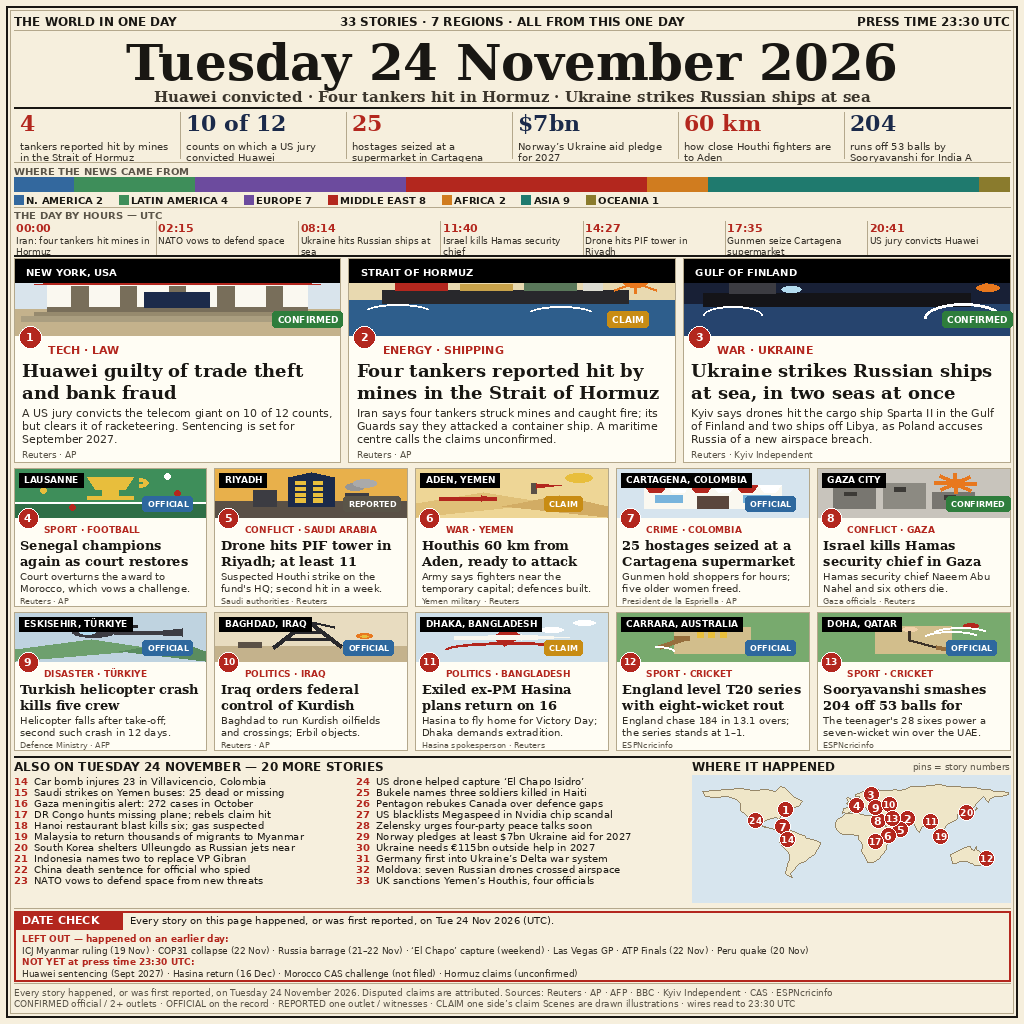
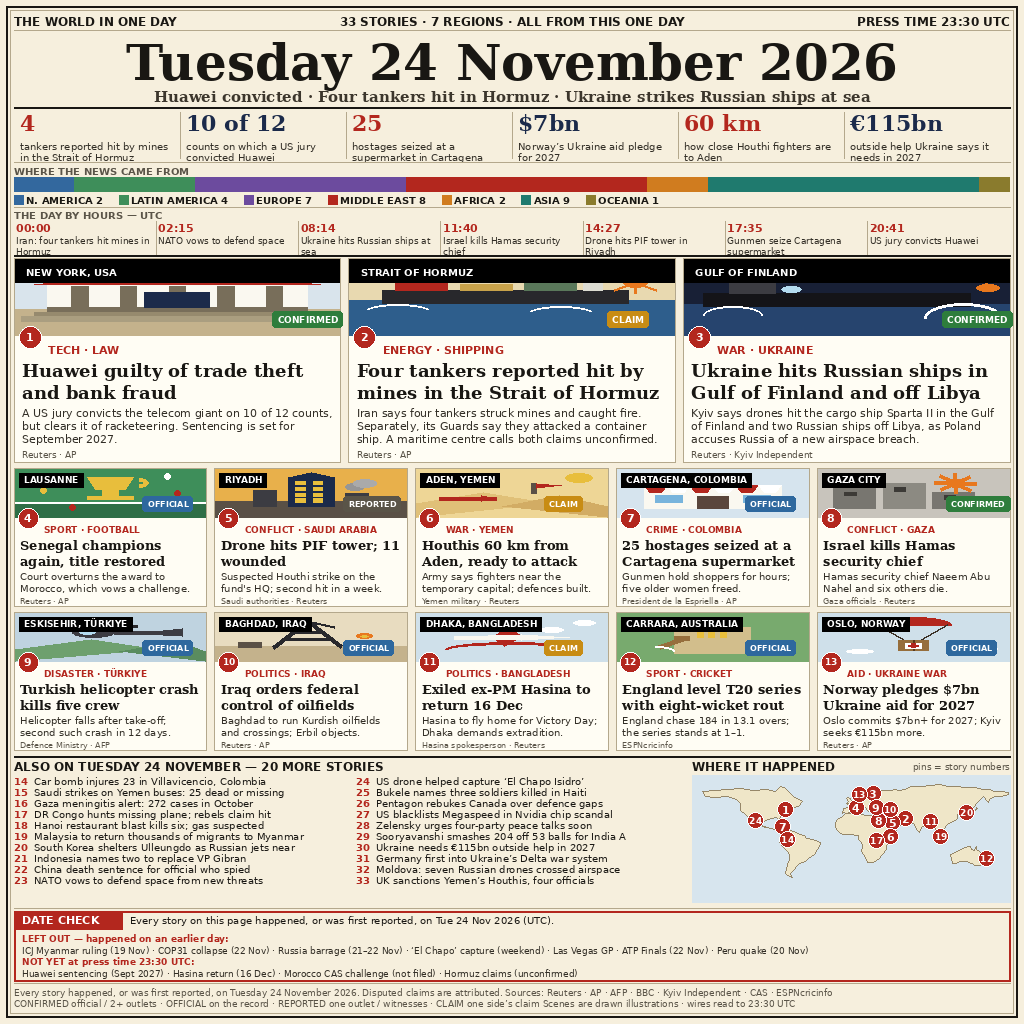
v2: fix clipped headlines, split Hormuz claims, Norway aid replaces cricket card, EUR115bn stat

diff --git a/render.py b/render.py
@@ -41,29 +41,29 @@ LEADS = [
          tagcol=(200, 140, 20), scene="tanker",
          kicker="ENERGY \u00b7 SHIPPING",
          head="Four tankers reported hit by mines in the Strait of Hormuz",
-         body="Iran says four tankers struck mines and caught fire; its Guards say "
-              "they attacked a container ship. A maritime centre calls the claims "
-              "unconfirmed.",
+         body="Iran says four tankers struck mines and caught fire. Separately, "
+              "its Guards say they attacked a container ship. A maritime centre "
+              "calls both claims unconfirmed.",
          source="Reuters \u00b7 AP", lat=26.5, lon=56.0),
     dict(n=3, region="EUROPE", place="GULF OF FINLAND", tag="CONFIRMED",
          tagcol=(46, 125, 60), scene="shipstrike",
          kicker="WAR \u00b7 UKRAINE",
-         head="Ukraine strikes Russian ships at sea, in two seas at once",
+         head="Ukraine hits Russian ships in Gulf of Finland and off Libya",
          body="Kyiv says drones hit the cargo ship Sparta II in the Gulf of Finland "
-              "and two ships off Libya, as Poland accuses Russia of a new airspace "
-              "breach.",
+              "and two Russian ships off Libya, as Poland accuses Russia of a new "
+              "airspace breach.",
          source="Reuters \u00b7 Kyiv Independent", lat=59.8, lon=24.0),
 ]
 
 MEDIUMS = [
     dict(n=4, region="AFRICA", place="LAUSANNE", tag="OFFICIAL",
          tagcol=(46, 104, 158), scene="trophy", kicker="SPORT \u00b7 FOOTBALL",
-         head="Senegal champions again as court restores title",
+         head="Senegal champions again, title restored",
          body="Court overturns the award to Morocco, which vows a challenge.",
          source="Reuters \u00b7 AP", lat=46.5, lon=6.6),
     dict(n=5, region="MIDDLE EAST", place="RIYADH", tag="REPORTED",
          tagcol=(90, 84, 72), scene="tower", kicker="CONFLICT \u00b7 SAUDI ARABIA",
-         head="Drone hits PIF tower in Riyadh; at least 11 wounded",
+         head="Drone hits PIF tower; 11 wounded",
          body="Suspected Houthi strike on the fund's HQ; second hit in a week.",
          source="Saudi authorities \u00b7 Reuters", lat=24.7, lon=46.7),
     dict(n=6, region="MIDDLE EAST", place="ADEN, YEMEN", tag="CLAIM",
@@ -78,7 +78,7 @@ MEDIUMS = [
          source="President de la Espriella \u00b7 AP", lat=10.4, lon=-75.5),
     dict(n=8, region="MIDDLE EAST", place="GAZA CITY", tag="CONFIRMED",
          tagcol=(46, 125, 60), scene="blast", kicker="CONFLICT \u00b7 GAZA",
-         head="Israel kills Hamas security chief in Gaza strike",
+         head="Israel kills Hamas security chief",
          body="Hamas security chief Naeem Abu Nahel and six others die.",
          source="Gaza officials \u00b7 Reuters", lat=31.5, lon=34.5),
     dict(n=9, region="ASIA", place="ESKISEHIR, T\u00dcRKIYE", tag="OFFICIAL",
@@ -88,12 +88,12 @@ MEDIUMS = [
          source="Defence Ministry \u00b7 AFP", lat=39.8, lon=30.5),
     dict(n=10, region="MIDDLE EAST", place="BAGHDAD, IRAQ", tag="OFFICIAL",
          tagcol=(46, 104, 158), scene="oil", kicker="POLITICS \u00b7 IRAQ",
-         head="Iraq orders federal control of Kurdish oilfields",
+         head="Iraq orders federal control of oilfields",
          body="Baghdad to run Kurdish oilfields and crossings; Erbil objects.",
          source="Reuters \u00b7 AP", lat=33.3, lon=44.4),
     dict(n=11, region="SOUTH ASIA", place="DHAKA, BANGLADESH", tag="CLAIM",
          tagcol=(200, 140, 20), scene="plane", kicker="POLITICS \u00b7 BANGLADESH",
-         head="Exiled ex-PM Hasina plans return on 16 December",
+         head="Exiled ex-PM Hasina to return 16 Dec",
          body="Hasina to fly home for Victory Day; Dhaka demands extradition.",
          source="Hasina spokesperson \u00b7 Reuters", lat=23.8, lon=90.4),
     dict(n=12, region="OCEANIA", place="CARRARA, AUSTRALIA", tag="OFFICIAL",
@@ -101,11 +101,11 @@ MEDIUMS = [
          head="England level T20 series with eight-wicket rout",
          body="England chase 184 in 13.1 overs; the series stands at 1\u20131.",
          source="ESPNcricinfo", lat=-28.0, lon=153.4),
-    dict(n=13, region="SOUTH ASIA", place="DOHA, QATAR", tag="OFFICIAL",
-         tagcol=(46, 104, 158), scene="bat", kicker="SPORT \u00b7 CRICKET",
-         head="Sooryavanshi smashes 204 off 53 balls for India A",
-         body="The teenager's 28 sixes power a seven-wicket win over the UAE.",
-         source="ESPNcricinfo", lat=25.3, lon=51.5),
+    dict(n=13, region="EUROPE", place="OSLO, NORWAY", tag="OFFICIAL",
+         tagcol=(46, 104, 158), scene="aid", kicker="AID \u00b7 UKRAINE WAR",
+         head="Norway pledges $7bn Ukraine aid for 2027",
+         body="Oslo commits $7bn+ for 2027; Kyiv seeks \u20ac115bn more.",
+         source="Reuters \u00b7 AP", lat=59.9, lon=10.7),
 ]
 
 ALSO = [
@@ -124,7 +124,7 @@ ALSO = [
     (26, "Pentagon rebukes Canada over defence gaps"),
     (27, "US blacklists Megaspeed in Nvidia chip scandal"),
     (28, "Zelensky urges four-party peace talks soon"),
-    (29, "Norway pledges at least $7bn Ukraine aid for 2027"),
+    (29, "Sooryavanshi smashes 204 off 53 balls for India A"),
     (30, "Ukraine needs \u20ac115bn outside help in 2027"),
     (31, "Germany first into Ukraine\u2019s Delta war system"),
     (32, "Moldova: seven Russian drones crossed airspace"),
@@ -137,7 +137,7 @@ NUMBERS = [
     ("25", "hostages seized at a supermarket in Cartagena"),
     ("$7bn", "Norway\u2019s Ukraine aid pledge for 2027"),
     ("60 km", "how close Houthi fighters are to Aden"),
-    ("204", "runs off 53 balls by Sooryavanshi for India A"),
+    ("\u20ac115bn", "outside help Ukraine says it needs in 2027"),
 ]
 
 REGIONS = [
@@ -370,6 +370,18 @@ def scene(d, kind, x, y, w, h):
         d.ellipse([X(0.76), Y(0.22), X(0.84), Y(0.32)], fill=RED)
         d.arc([X(0.60), Y(0.30), X(0.90), Y(0.60)], 200, 330, fill=(255, 255, 255), width=2)
         d.arc([X(0.55), Y(0.38), X(0.85), Y(0.68)], 200, 330, fill=(255, 255, 255), width=2)
+    elif kind == "aid":
+        d.rectangle([x, y, x + w, y + h], fill=(207, 224, 234))
+        for cx, cy in [(0.15, 0.75), (0.80, 0.70)]:
+            d.ellipse([X(cx), Y(cy), X(cx + 0.14), Y(cy + 0.10)], fill=(255, 255, 255))
+        d.pieslice([X(0.30), Y(0.10), X(0.70), Y(0.42)], 180, 360, fill=(179, 39, 30))
+        d.line([X(0.32), Y(0.26), X(0.46), Y(0.58)], fill=(60, 50, 40), width=2)
+        d.line([X(0.68), Y(0.26), X(0.54), Y(0.58)], fill=(60, 50, 40), width=2)
+        d.rectangle([X(0.42), Y(0.58), X(0.58), Y(0.78)], fill=(150, 110, 60))
+        d.line([X(0.50), Y(0.58), X(0.50), Y(0.78)], fill=(90, 60, 30), width=2)
+        d.rectangle([X(0.46), Y(0.63), X(0.54), Y(0.73)], fill=(255, 255, 255))
+        d.rectangle([X(0.488), Y(0.645), X(0.512), Y(0.715)], fill=(179, 39, 30))
+        d.rectangle([X(0.472), Y(0.668), X(0.528), Y(0.692)], fill=(179, 39, 30))
     else:
         d.rectangle([x, y, x + w, y + h], fill=(220, 214, 196))
 
